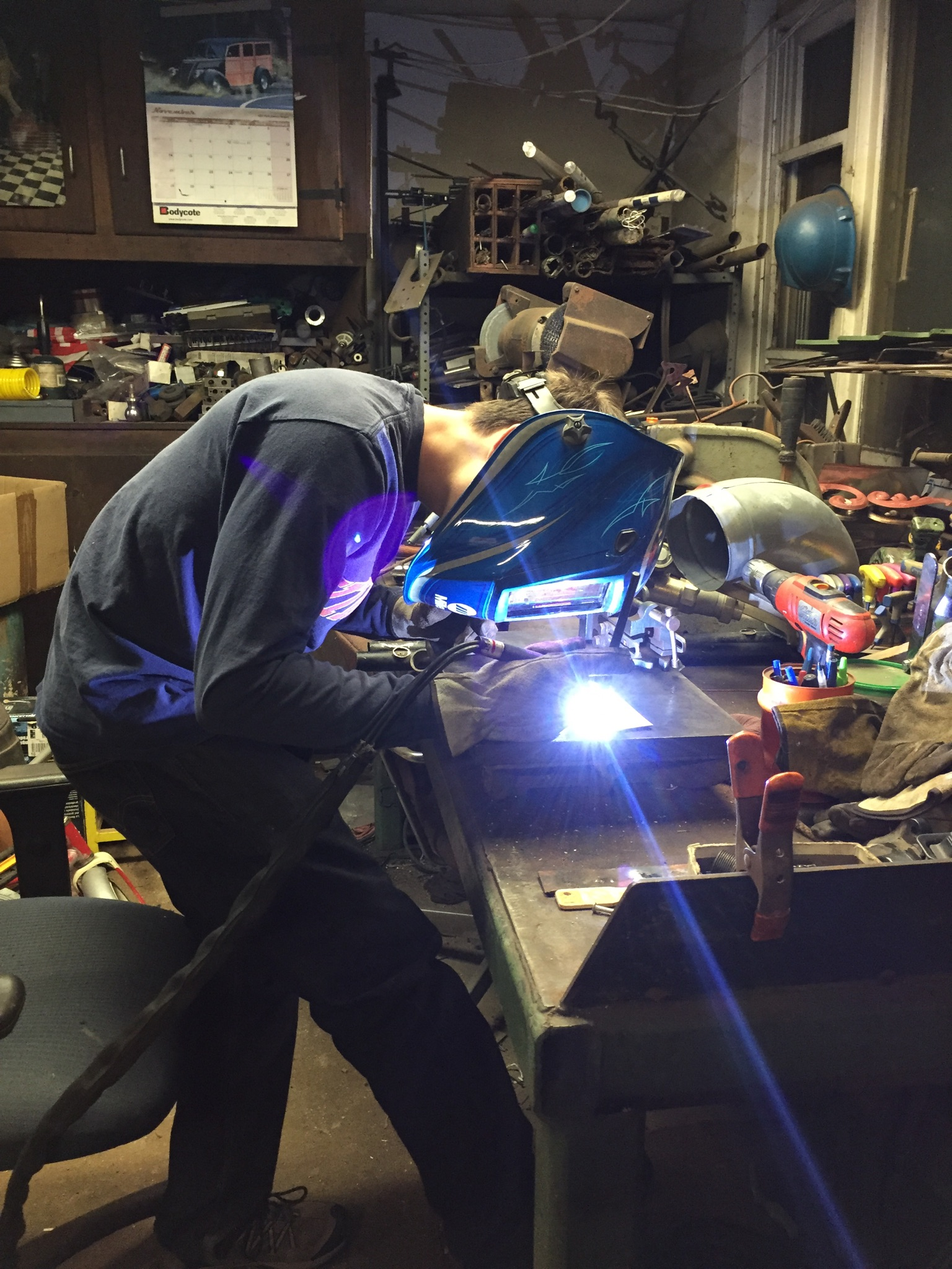
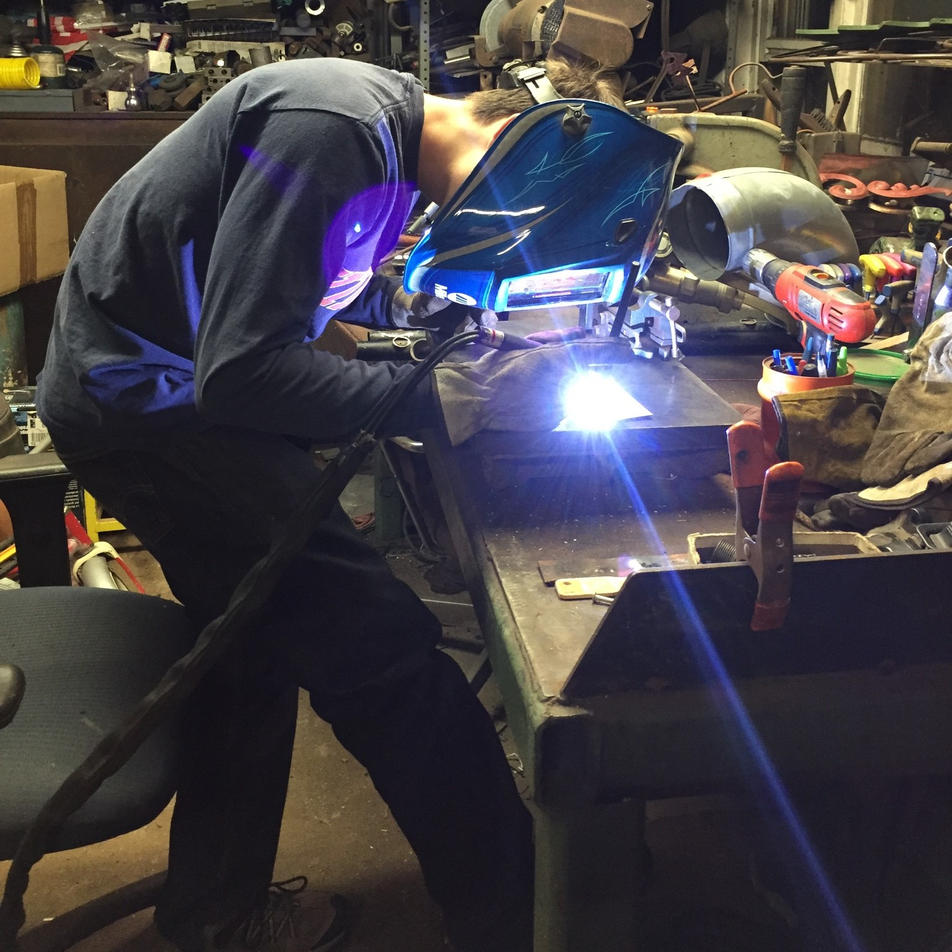
update images
update images

diff --git a/projects.html b/projects.html
@@ -59,27 +59,23 @@
 
     <div class="project-panes">
       <div class="project first">
-        <img class="image one" src="./assets/Projects/website-itself/homePage.PNG" alt="An image of this website">
+        <img class="image one" src="./assets/Projects/website-itself/homePage-square.PNG" alt="An image of this website">
       </div>
 
       <div class="project second">
-        make all source images the same size
-        <img class="image two" src="./assets/Projects/floating-table/transparent_table_nobase.png" alt="">
+        <img class="image two" src="./assets/Projects/floating-table/transparent_table-square.png" alt="">
       </div>
 
       <div class="project third">
-
           <img class="image three" src="./assets/Projects/Baja/welding.jpg" alt="">
       </div>
 
       <div class="project fourth">
-
           <img class="image four" src="./assets/Projects/Baja/baja 1.jpg" alt="">
       </div>
 
       <div class="project fith">
-
-          <img class="image five" src="./assets/Projects/floating-table/transparent_table_nobase.png" alt="">
+          <img class="image five" src="#" alt="">
       </div>
 
 

diff --git a/index.html b/index.html
@@ -65,7 +65,7 @@
         <div class="images">
             <img class="image img1" src="./assets/transparent_table_nobase.png" alt="">
             <img class="image img2" src="./assets/transparent_lamp.png" alt="">
-            <img class="image img3" src="./assets/table-seethru-lamp.png" alt="">
+            <img class="image img3" src="./assets/with cropped table lower.png" alt="">
             <img class="image img4" src="./assets/knife-block.png" alt="">
         </div>
 

diff --git a/styles/projects.css b/styles/projects.css
@@ -96,14 +96,21 @@ span{
   color: red;
 }
 
+.project:hover{
+  background-color: black;
+  transition: .5s ease;
+}
 
 .image{
   width:100%;
   margin: auto;
+}
 
+.image:hover{
+  opacity: .5
 }
 
 .one{
-  border: 3px solid black;
+  /* border: 3px solid black; */
   /* do sth with this later */
 }
